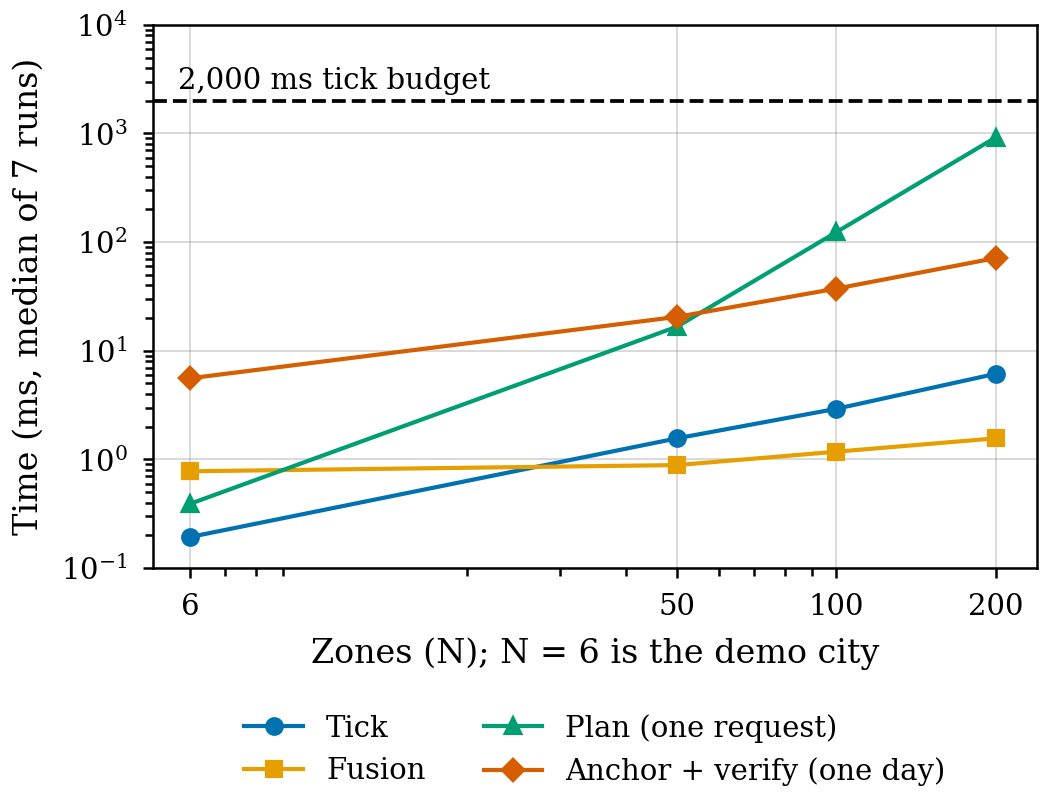
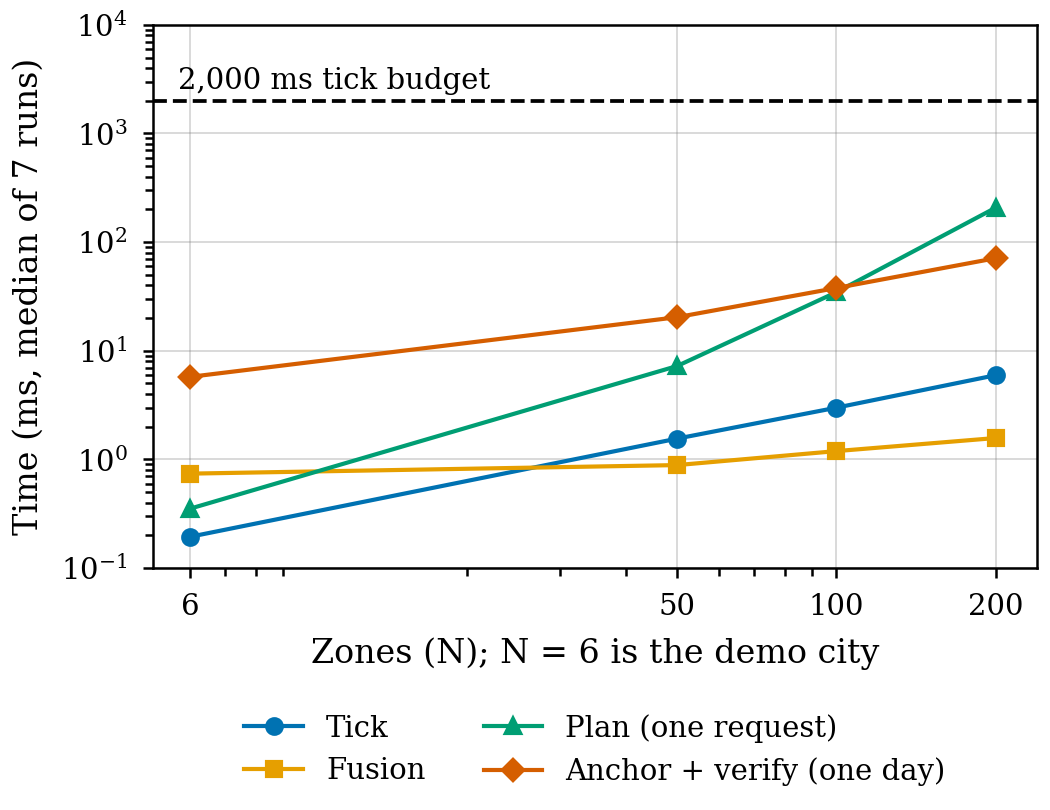
Regenerate scale results and figure after the zone index

diff --git a/demo/server/experiments/results/scale.md b/demo/server/experiments/results/scale.md
@@ -20,11 +20,11 @@ Data: `experiments/data/chennai-wards.json`, 200 Greater Chennai Corporation war
 
 | Zones (N) | Groups | Shelters | Tick ms (% of 2,000 ms) | Fusion ms (% of 2,000 ms) | Plan ms per request (pairs) | Anchor ms + verify ms (entries) | Heap MB (one pass) |
 |---:|---:|---:|---:|---:|---:|---:|---:|
-| 6 (demo) | 1 | 6 | 0.19 (0.01%) | 0.75 (0.04%) | 0.37 (6) | 2.96 + 2.70 (80) | 1.8 |
-| 50 | 10 | 25 | 1.55 (0.08%) | 0.87 (0.04%) | 7.31 (250) | 10.4 + 10.1 (300) | 11.0 |
-| 100 | 20 | 50 | 2.91 (0.15%) | 1.16 (0.06%) | 34.4 (1,000) | 18.9 + 18.4 (550) | 17.4 |
-| 200 | 40 | 100 | 6.04 (0.30%) | 1.53 (0.08%) | 208.9 (4,000) | 36.9 + 34.4 (1,050) | 16.6 |
+| 6 (demo) | 1 | 6 | 0.19 (0.01%) | 0.74 (0.04%) | 0.35 (6) | 3.03 + 2.72 (80) | 1.8 |
+| 50 | 10 | 25 | 1.55 (0.08%) | 0.89 (0.04%) | 7.24 (250) | 10.5 + 9.92 (300) | 11.0 |
+| 100 | 20 | 50 | 2.99 (0.15%) | 1.19 (0.06%) | 34.6 (1,000) | 19.1 + 18.7 (550) | 17.5 |
+| 200 | 40 | 100 | 5.96 (0.30%) | 1.57 (0.08%) | 207.1 (4,000) | 36.3 + 34.8 (1,050) | 16.6 |
 
 Tick and fusion are compared with the 2,000 ms budget of one live tick (the server ticks every 2 s). Plan is per request.
 
-Fastest growth from N=50 to N=200 (zones x4): plan, x28.6. Others: tick x3.9, fusion x1.7, anchor+verify x3.5.
+Fastest growth from N=50 to N=200 (zones x4): plan, x28.6. Others: tick x3.8, fusion x1.8, anchor+verify x3.5.
